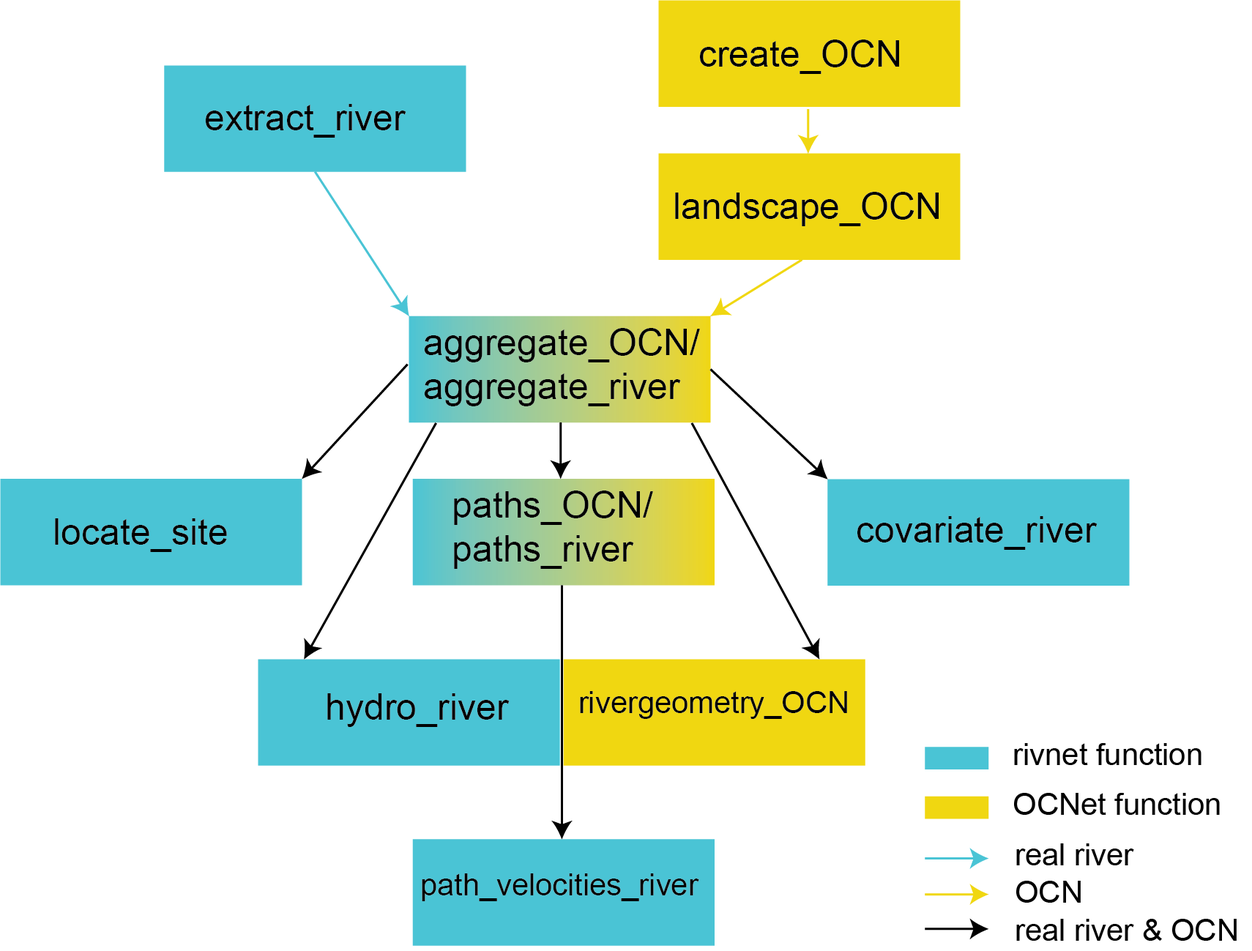
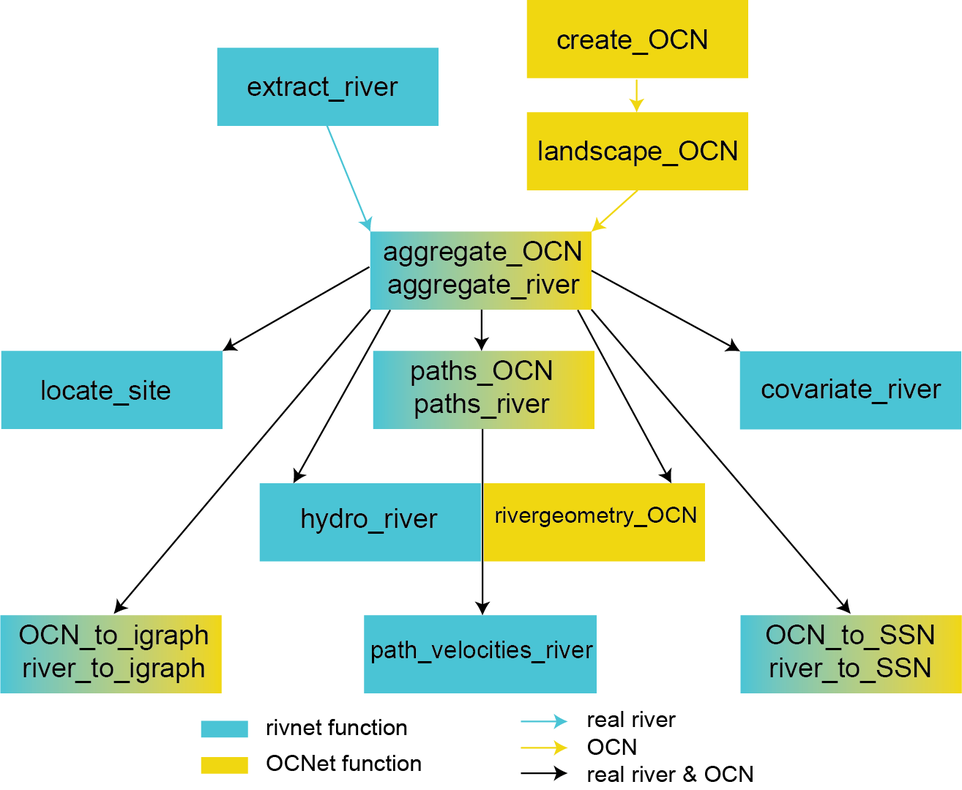
Deploying to gh-pages from @ lucarraro/rivnet@55681bc7442469798eda9d7e310753242be2d22b 🚀

diff --git a/reference/river_to_SSN.html b/reference/river_to_SSN.html
@@ -1,0 +1,99 @@
+<!DOCTYPE html>
+<!-- Generated by pkgdown: do not edit by hand --><html lang="en"><head><meta http-equiv="Content-Type" content="text/html; charset=UTF-8"><meta charset="utf-8"><meta http-equiv="X-UA-Compatible" content="IE=edge"><meta name="viewport" content="width=device-width, initial-scale=1, shrink-to-fit=no"><meta name="description" content="Function that transforms a river object into a SpatialStreamNetwork object."><title>Transform river into SSN object — river_to_SSN • rivnet</title><script src="../deps/jquery-3.6.0/jquery-3.6.0.min.js"></script><meta name="viewport" content="width=device-width, initial-scale=1, shrink-to-fit=no"><link href="../deps/bootstrap-5.2.2/bootstrap.min.css" rel="stylesheet"><script src="../deps/bootstrap-5.2.2/bootstrap.bundle.min.js"></script><!-- Font Awesome icons --><link rel="stylesheet" href="https://cdnjs.cloudflare.com/ajax/libs/font-awesome/5.12.1/css/all.min.css" integrity="sha256-mmgLkCYLUQbXn0B1SRqzHar6dCnv9oZFPEC1g1cwlkk=" crossorigin="anonymous"><link rel="stylesheet" href="https://cdnjs.cloudflare.com/ajax/libs/font-awesome/5.12.1/css/v4-shims.min.css" integrity="sha256-wZjR52fzng1pJHwx4aV2AO3yyTOXrcDW7jBpJtTwVxw=" crossorigin="anonymous"><!-- bootstrap-toc --><script src="https://cdn.jsdelivr.net/gh/afeld/bootstrap-toc@v1.0.1/dist/bootstrap-toc.min.js" integrity="sha256-4veVQbu7//Lk5TSmc7YV48MxtMy98e26cf5MrgZYnwo=" crossorigin="anonymous"></script><!-- headroom.js --><script src="https://cdnjs.cloudflare.com/ajax/libs/headroom/0.11.0/headroom.min.js" integrity="sha256-AsUX4SJE1+yuDu5+mAVzJbuYNPHj/WroHuZ8Ir/CkE0=" crossorigin="anonymous"></script><script src="https://cdnjs.cloudflare.com/ajax/libs/headroom/0.11.0/jQuery.headroom.min.js" integrity="sha256-ZX/yNShbjqsohH1k95liqY9Gd8uOiE1S4vZc+9KQ1K4=" crossorigin="anonymous"></script><!-- clipboard.js --><script src="https://cdnjs.cloudflare.com/ajax/libs/clipboard.js/2.0.6/clipboard.min.js" integrity="sha256-inc5kl9MA1hkeYUt+EC3BhlIgyp/2jDIyBLS6k3UxPI=" crossorigin="anonymous"></script><!-- search --><script src="https://cdnjs.cloudflare.com/ajax/libs/fuse.js/6.4.6/fuse.js" integrity="sha512-zv6Ywkjyktsohkbp9bb45V6tEMoWhzFzXis+LrMehmJZZSys19Yxf1dopHx7WzIKxr5tK2dVcYmaCk2uqdjF4A==" crossorigin="anonymous"></script><script src="https://cdnjs.cloudflare.com/ajax/libs/autocomplete.js/0.38.0/autocomplete.jquery.min.js" integrity="sha512-GU9ayf+66Xx2TmpxqJpliWbT5PiGYxpaG8rfnBEk1LL8l1KGkRShhngwdXK1UgqhAzWpZHSiYPc09/NwDQIGyg==" crossorigin="anonymous"></script><script src="https://cdnjs.cloudflare.com/ajax/libs/mark.js/8.11.1/mark.min.js" integrity="sha512-5CYOlHXGh6QpOFA/TeTylKLWfB3ftPsde7AnmhuitiTX4K5SqCLBeKro6sPS8ilsz1Q4NRx3v8Ko2IBiszzdww==" crossorigin="anonymous"></script><!-- pkgdown --><script src="../pkgdown.js"></script><meta property="og:title" content="Transform river into SSN object — river_to_SSN"><meta property="og:description" content="Function that transforms a river object into a SpatialStreamNetwork object."><!-- mathjax --><script src="https://cdnjs.cloudflare.com/ajax/libs/mathjax/2.7.5/MathJax.js" integrity="sha256-nvJJv9wWKEm88qvoQl9ekL2J+k/RWIsaSScxxlsrv8k=" crossorigin="anonymous"></script><script src="https://cdnjs.cloudflare.com/ajax/libs/mathjax/2.7.5/config/TeX-AMS-MML_HTMLorMML.js" integrity="sha256-84DKXVJXs0/F8OTMzX4UR909+jtl4G7SPypPavF+GfA=" crossorigin="anonymous"></script><!--[if lt IE 9]>
+<script src="https://oss.maxcdn.com/html5shiv/3.7.3/html5shiv.min.js"></script>
+<script src="https://oss.maxcdn.com/respond/1.4.2/respond.min.js"></script>
+<![endif]--></head><body>
+    <a href="#main" class="visually-hidden-focusable">Skip to contents</a>
+    
+
+    <nav class="navbar fixed-top navbar-light navbar-expand-lg bg-light"><div class="container">
+    
+    <a class="navbar-brand me-2" href="../index.html">rivnet</a>
+
+    <small class="nav-text text-muted me-auto" data-bs-toggle="tooltip" data-bs-placement="bottom" title="">0.1.0</small>
+
+    
+    <button class="navbar-toggler" type="button" data-bs-toggle="collapse" data-bs-target="#navbar" aria-controls="navbar" aria-expanded="false" aria-label="Toggle navigation">
+      <span class="navbar-toggler-icon"></span>
+    </button>
+
+    <div id="navbar" class="collapse navbar-collapse ms-3">
+      <ul class="navbar-nav me-auto"><li class="nav-item">
+  <a class="nav-link" href="../articles/rivnet.html">Get started</a>
+</li>
+<li class="active nav-item">
+  <a class="nav-link" href="../reference/index.html">Reference</a>
+</li>
+      </ul><form class="form-inline my-2 my-lg-0" role="search">
+        <input type="search" class="form-control me-sm-2" aria-label="Toggle navigation" name="search-input" data-search-index="../search.json" id="search-input" placeholder="Search for" autocomplete="off"></form>
+
+      <ul class="navbar-nav"></ul></div>
+
+    
+  </div>
+</nav><div class="container template-reference-topic">
+<div class="row">
+  <main id="main" class="col-md-9"><div class="page-header">
+      <img src="" class="logo" alt=""><h1>Transform river into SSN object</h1>
+      
+      <div class="d-none name"><code>river_to_SSN.Rd</code></div>
+    </div>
+
+    <div class="ref-description section level2">
+    <p>Function that transforms a river object into a SpatialStreamNetwork object.</p>
+    </div>
+
+    <div class="section level2">
+    <h2 id="ref-usage">Usage<a class="anchor" aria-label="anchor" href="#ref-usage"></a></h2>
+    <div class="sourceCode"><pre class="sourceCode r"><code><span><span class="fu">river_to_SSN</span><span class="op">(</span><span class="va">river</span>, <span class="va">...</span><span class="op">)</span></span></code></pre></div>
+    </div>
+
+    <div class="section level2">
+    <h2 id="arguments">Arguments<a class="anchor" aria-label="anchor" href="#arguments"></a></h2>
+    <dl><dt>river</dt>
+<dd><p>A river object.</p></dd>
+
+<dt>...</dt>
+<dd><p>Further arguments to be passed to <code>OCN_to_SSN</code>.</p></dd>
+
+</dl></div>
+    <div class="section level2">
+    <h2 id="details">Details<a class="anchor" aria-label="anchor" href="#details"></a></h2>
+    <p>This is an alias to <code>OCN_to_SSN</code>.</p>
+    </div>
+
+    <div class="section level2">
+    <h2 id="ref-examples">Examples<a class="anchor" aria-label="anchor" href="#ref-examples"></a></h2>
+    <div class="sourceCode"><pre class="sourceCode r"><code><span class="r-in"><span><span class="kw">if</span> <span class="op">(</span><span class="cn">FALSE</span><span class="op">)</span> <span class="op">{</span> <span class="co"># interactive() &amp;&amp; traudem::can_register_taudem()</span></span></span>
+<span class="r-in"><span><span class="co"># \donttest{</span></span></span>
+<span class="r-in"><span> <span class="va">fp</span> <span class="op">&lt;-</span> <span class="fu"><a href="https://rdrr.io/r/base/system.file.html" class="external-link">system.file</a></span><span class="op">(</span><span class="st">"extdata/wigger.tif"</span>, package<span class="op">=</span><span class="st">"rivnet"</span><span class="op">)</span></span></span>
+<span class="r-in"><span> <span class="va">r</span> <span class="op">&lt;-</span> <span class="fu"><a href="extract_river.html">extract_river</a></span><span class="op">(</span>outlet<span class="op">=</span><span class="fu"><a href="https://rdrr.io/r/base/c.html" class="external-link">c</a></span><span class="op">(</span><span class="fl">637478</span>,<span class="fl">237413</span><span class="op">)</span>,</span></span>
+<span class="r-in"><span>  DEM<span class="op">=</span><span class="va">fp</span><span class="op">)</span></span></span>
+<span class="r-in"><span><span class="va">r</span> <span class="op">&lt;-</span> <span class="fu"><a href="aggregate_river.html">aggregate_river</a></span><span class="op">(</span><span class="va">r</span><span class="op">)</span>  </span></span>
+<span class="r-in"><span><span class="va">s</span> <span class="op">&lt;-</span> <span class="fu">river_to_SSN</span><span class="op">(</span><span class="va">r</span>, level <span class="op">=</span> <span class="st">"AG"</span>, obsSites <span class="op">=</span> <span class="fu"><a href="https://rdrr.io/r/base/sample.html" class="external-link">sample</a></span><span class="op">(</span><span class="va">r</span><span class="op">$</span><span class="va">AG</span><span class="op">$</span><span class="va">nNodes</span>, <span class="fl">10</span><span class="op">)</span>,</span></span>
+<span class="r-in"><span>  path <span class="op">=</span> <span class="fu"><a href="https://rdrr.io/r/base/paste.html" class="external-link">paste</a></span><span class="op">(</span><span class="fu"><a href="https://rdrr.io/r/base/tempfile.html" class="external-link">tempdir</a></span><span class="op">(</span><span class="op">)</span>,<span class="st">"/river.ssn"</span>, sep <span class="op">=</span> <span class="st">""</span><span class="op">)</span>, importToR <span class="op">=</span> <span class="cn">TRUE</span><span class="op">)</span></span></span>
+<span class="r-in"><span><span class="fu"><a href="plot.html">plot</a></span><span class="op">(</span><span class="va">s</span><span class="op">)</span></span></span>
+<span class="r-in"><span><span class="co"># }</span></span></span>
+<span class="r-in"><span><span class="op">}</span>  </span></span>
+</code></pre></div>
+    </div>
+  </main><aside class="col-md-3"><nav id="toc"><h2>On this page</h2>
+    </nav></aside></div>
+
+
+    <footer><div class="pkgdown-footer-left">
+  <p></p><p>Developed by Luca Carraro.</p>
+</div>
+
+<div class="pkgdown-footer-right">
+  <p></p><p>Site built with <a href="https://pkgdown.r-lib.org/" class="external-link">pkgdown</a> 2.0.7.</p>
+</div>
+
+    </footer></div>
+
+  
+
+  
+
+  </body></html>
+

diff --git a/reference/river_to_igraph.html b/reference/river_to_igraph.html
@@ -1,0 +1,98 @@
+<!DOCTYPE html>
+<!-- Generated by pkgdown: do not edit by hand --><html lang="en"><head><meta http-equiv="Content-Type" content="text/html; charset=UTF-8"><meta charset="utf-8"><meta http-equiv="X-UA-Compatible" content="IE=edge"><meta name="viewport" content="width=device-width, initial-scale=1, shrink-to-fit=no"><meta name="description" content="Transform a river in an igraph object"><title>river_to_igraph — river_to_igraph • rivnet</title><script src="../deps/jquery-3.6.0/jquery-3.6.0.min.js"></script><meta name="viewport" content="width=device-width, initial-scale=1, shrink-to-fit=no"><link href="../deps/bootstrap-5.2.2/bootstrap.min.css" rel="stylesheet"><script src="../deps/bootstrap-5.2.2/bootstrap.bundle.min.js"></script><!-- Font Awesome icons --><link rel="stylesheet" href="https://cdnjs.cloudflare.com/ajax/libs/font-awesome/5.12.1/css/all.min.css" integrity="sha256-mmgLkCYLUQbXn0B1SRqzHar6dCnv9oZFPEC1g1cwlkk=" crossorigin="anonymous"><link rel="stylesheet" href="https://cdnjs.cloudflare.com/ajax/libs/font-awesome/5.12.1/css/v4-shims.min.css" integrity="sha256-wZjR52fzng1pJHwx4aV2AO3yyTOXrcDW7jBpJtTwVxw=" crossorigin="anonymous"><!-- bootstrap-toc --><script src="https://cdn.jsdelivr.net/gh/afeld/bootstrap-toc@v1.0.1/dist/bootstrap-toc.min.js" integrity="sha256-4veVQbu7//Lk5TSmc7YV48MxtMy98e26cf5MrgZYnwo=" crossorigin="anonymous"></script><!-- headroom.js --><script src="https://cdnjs.cloudflare.com/ajax/libs/headroom/0.11.0/headroom.min.js" integrity="sha256-AsUX4SJE1+yuDu5+mAVzJbuYNPHj/WroHuZ8Ir/CkE0=" crossorigin="anonymous"></script><script src="https://cdnjs.cloudflare.com/ajax/libs/headroom/0.11.0/jQuery.headroom.min.js" integrity="sha256-ZX/yNShbjqsohH1k95liqY9Gd8uOiE1S4vZc+9KQ1K4=" crossorigin="anonymous"></script><!-- clipboard.js --><script src="https://cdnjs.cloudflare.com/ajax/libs/clipboard.js/2.0.6/clipboard.min.js" integrity="sha256-inc5kl9MA1hkeYUt+EC3BhlIgyp/2jDIyBLS6k3UxPI=" crossorigin="anonymous"></script><!-- search --><script src="https://cdnjs.cloudflare.com/ajax/libs/fuse.js/6.4.6/fuse.js" integrity="sha512-zv6Ywkjyktsohkbp9bb45V6tEMoWhzFzXis+LrMehmJZZSys19Yxf1dopHx7WzIKxr5tK2dVcYmaCk2uqdjF4A==" crossorigin="anonymous"></script><script src="https://cdnjs.cloudflare.com/ajax/libs/autocomplete.js/0.38.0/autocomplete.jquery.min.js" integrity="sha512-GU9ayf+66Xx2TmpxqJpliWbT5PiGYxpaG8rfnBEk1LL8l1KGkRShhngwdXK1UgqhAzWpZHSiYPc09/NwDQIGyg==" crossorigin="anonymous"></script><script src="https://cdnjs.cloudflare.com/ajax/libs/mark.js/8.11.1/mark.min.js" integrity="sha512-5CYOlHXGh6QpOFA/TeTylKLWfB3ftPsde7AnmhuitiTX4K5SqCLBeKro6sPS8ilsz1Q4NRx3v8Ko2IBiszzdww==" crossorigin="anonymous"></script><!-- pkgdown --><script src="../pkgdown.js"></script><meta property="og:title" content="river_to_igraph — river_to_igraph"><meta property="og:description" content="Transform a river in an igraph object"><!-- mathjax --><script src="https://cdnjs.cloudflare.com/ajax/libs/mathjax/2.7.5/MathJax.js" integrity="sha256-nvJJv9wWKEm88qvoQl9ekL2J+k/RWIsaSScxxlsrv8k=" crossorigin="anonymous"></script><script src="https://cdnjs.cloudflare.com/ajax/libs/mathjax/2.7.5/config/TeX-AMS-MML_HTMLorMML.js" integrity="sha256-84DKXVJXs0/F8OTMzX4UR909+jtl4G7SPypPavF+GfA=" crossorigin="anonymous"></script><!--[if lt IE 9]>
+<script src="https://oss.maxcdn.com/html5shiv/3.7.3/html5shiv.min.js"></script>
+<script src="https://oss.maxcdn.com/respond/1.4.2/respond.min.js"></script>
+<![endif]--></head><body>
+    <a href="#main" class="visually-hidden-focusable">Skip to contents</a>
+    
+
+    <nav class="navbar fixed-top navbar-light navbar-expand-lg bg-light"><div class="container">
+    
+    <a class="navbar-brand me-2" href="../index.html">rivnet</a>
+
+    <small class="nav-text text-muted me-auto" data-bs-toggle="tooltip" data-bs-placement="bottom" title="">0.1.0</small>
+
+    
+    <button class="navbar-toggler" type="button" data-bs-toggle="collapse" data-bs-target="#navbar" aria-controls="navbar" aria-expanded="false" aria-label="Toggle navigation">
+      <span class="navbar-toggler-icon"></span>
+    </button>
+
+    <div id="navbar" class="collapse navbar-collapse ms-3">
+      <ul class="navbar-nav me-auto"><li class="nav-item">
+  <a class="nav-link" href="../articles/rivnet.html">Get started</a>
+</li>
+<li class="active nav-item">
+  <a class="nav-link" href="../reference/index.html">Reference</a>
+</li>
+      </ul><form class="form-inline my-2 my-lg-0" role="search">
+        <input type="search" class="form-control me-sm-2" aria-label="Toggle navigation" name="search-input" data-search-index="../search.json" id="search-input" placeholder="Search for" autocomplete="off"></form>
+
+      <ul class="navbar-nav"></ul></div>
+
+    
+  </div>
+</nav><div class="container template-reference-topic">
+<div class="row">
+  <main id="main" class="col-md-9"><div class="page-header">
+      <img src="" class="logo" alt=""><h1>river_to_igraph</h1>
+      
+      <div class="d-none name"><code>river_to_igraph.Rd</code></div>
+    </div>
+
+    <div class="ref-description section level2">
+    <p>Transform a river in an igraph object</p>
+    </div>
+
+    <div class="section level2">
+    <h2 id="ref-usage">Usage<a class="anchor" aria-label="anchor" href="#ref-usage"></a></h2>
+    <div class="sourceCode"><pre class="sourceCode r"><code><span><span class="fu">river_to_igraph</span><span class="op">(</span><span class="va">river</span>, <span class="va">...</span><span class="op">)</span></span></code></pre></div>
+    </div>
+
+    <div class="section level2">
+    <h2 id="arguments">Arguments<a class="anchor" aria-label="anchor" href="#arguments"></a></h2>
+    <dl><dt>river</dt>
+<dd><p>A river object.</p></dd>
+
+<dt>...</dt>
+<dd><p>Further arguments to be passed to <code>OCN_to_igraph</code>.</p></dd>
+
+</dl></div>
+    <div class="section level2">
+    <h2 id="details">Details<a class="anchor" aria-label="anchor" href="#details"></a></h2>
+    <p>This is an alias to <code>OCN_to_igraph</code>.</p>
+    </div>
+
+    <div class="section level2">
+    <h2 id="ref-examples">Examples<a class="anchor" aria-label="anchor" href="#ref-examples"></a></h2>
+    <div class="sourceCode"><pre class="sourceCode r"><code><span class="r-in"><span><span class="kw">if</span> <span class="op">(</span><span class="cn">FALSE</span><span class="op">)</span> <span class="op">{</span> <span class="co"># interactive() &amp;&amp; traudem::can_register_taudem()</span></span></span>
+<span class="r-in"><span><span class="co"># \donttest{</span></span></span>
+<span class="r-in"><span> <span class="va">fp</span> <span class="op">&lt;-</span> <span class="fu"><a href="https://rdrr.io/r/base/system.file.html" class="external-link">system.file</a></span><span class="op">(</span><span class="st">"extdata/wigger.tif"</span>, package<span class="op">=</span><span class="st">"rivnet"</span><span class="op">)</span></span></span>
+<span class="r-in"><span> <span class="va">r</span> <span class="op">&lt;-</span> <span class="fu"><a href="extract_river.html">extract_river</a></span><span class="op">(</span>outlet<span class="op">=</span><span class="fu"><a href="https://rdrr.io/r/base/c.html" class="external-link">c</a></span><span class="op">(</span><span class="fl">637478</span>,<span class="fl">237413</span><span class="op">)</span>,</span></span>
+<span class="r-in"><span>  DEM<span class="op">=</span><span class="va">fp</span><span class="op">)</span></span></span>
+<span class="r-in"><span><span class="va">r</span> <span class="op">&lt;-</span> <span class="fu"><a href="aggregate_river.html">aggregate_river</a></span><span class="op">(</span><span class="va">r</span><span class="op">)</span>  </span></span>
+<span class="r-in"><span><span class="va">g</span> <span class="op">&lt;-</span> <span class="fu">river_to_igraph</span><span class="op">(</span><span class="va">r</span>, level <span class="op">=</span> <span class="st">"AG"</span><span class="op">)</span></span></span>
+<span class="r-in"><span><span class="va">g</span></span></span>
+<span class="r-in"><span><span class="co"># }</span></span></span>
+<span class="r-in"><span><span class="op">}</span>  </span></span>
+</code></pre></div>
+    </div>
+  </main><aside class="col-md-3"><nav id="toc"><h2>On this page</h2>
+    </nav></aside></div>
+
+
+    <footer><div class="pkgdown-footer-left">
+  <p></p><p>Developed by Luca Carraro.</p>
+</div>
+
+<div class="pkgdown-footer-right">
+  <p></p><p>Site built with <a href="https://pkgdown.r-lib.org/" class="external-link">pkgdown</a> 2.0.7.</p>
+</div>
+
+    </footer></div>
+
+  
+
+  
+
+  </body></html>
+

diff --git a/reference/plot.html b/reference/plot.html
@@ -46,11 +46,11 @@
     <div class="section level2">
     <h2 id="ref-usage">Usage<a class="anchor" aria-label="anchor" href="#ref-usage"></a></h2>
     <div class="sourceCode"><pre class="sourceCode r"><code><span><span class="co"># S4 method for river,numeric</span></span>
-<span><span class="fu">plot</span><span class="op">(</span><span class="va">x</span>, <span class="va">y</span>, <span class="va">...</span><span class="op">)</span></span>
+<span><span class="fu">plot</span><span class="op">(</span><span class="va">x</span>, <span class="va">y</span>, <span class="va">level</span>, <span class="va">...</span><span class="op">)</span></span>
 <span><span class="co"># S4 method for numeric,river</span></span>
-<span><span class="fu">plot</span><span class="op">(</span><span class="va">x</span>, <span class="va">y</span>, <span class="va">...</span><span class="op">)</span></span>
+<span><span class="fu">plot</span><span class="op">(</span><span class="va">x</span>, <span class="va">y</span>, <span class="va">level</span>, <span class="va">...</span><span class="op">)</span></span>
 <span><span class="co"># S4 method for river,missing</span></span>
-<span><span class="fu">plot</span><span class="op">(</span><span class="va">x</span>, <span class="va">y</span>, <span class="va">...</span><span class="op">)</span></span></code></pre></div>
+<span><span class="fu">plot</span><span class="op">(</span><span class="va">x</span>, <span class="va">level</span>, <span class="va">...</span><span class="op">)</span></span></code></pre></div>
     </div>
 
     <div class="section level2">
@@ -60,8 +60,12 @@
 
 <dt>y</dt>
 <dd><p>A numeric vector to be displayed (or a river if <code>x</code> is a numeric vector). 
-It is equivalent to <code>theme</code> in <code>draw_thematic_OCN</code>. If <code>y</code> is specified, the river must 
+It is equivalent to <code>theme</code> in <code>draw_subcatchments_OCN</code> and <code>draw_thematic_OCN</code>. If <code>y</code> is specified, the river must 
 have been aggregated. See details.</p></dd>
+
+<dt>level</dt>
+<dd><p>Optional argument. If <code>level = "SC"</code>, <code>draw_subcatchments_OCN</code> is used (provided that the river object is aggregated); alternatively,
+<code>draw_thematic_OCN</code> is used.</p></dd>
 
 <dt>...</dt>
 <dd><p>Arguments passed to the plotting functions <code>draw_simple_OCN</code>, <code>draw_contour_OCN</code>, 
@@ -70,16 +74,16 @@ have been aggregated. See details.</p></dd>
 </dl></div>
     <div class="section level2">
     <h2 id="details">Details<a class="anchor" aria-label="anchor" href="#details"></a></h2>
-    <p>This is an interface to the plotting functions <code>draw_simple_OCN</code>, <code>draw_contour_OCN</code>, 
+    <p>This is an interface to the plotting functions <code>draw_simple_OCN</code>, <code>draw_contour_OCN</code>, <code>draw_subcatchments_OCN</code>,
 <code>draw_thematic_OCN</code>. If the river object does not have an elevation field (i.e., it has been generated
 by <code>create_OCN</code> or <code>create_general_contour_OCN</code>, but <code>landscape_OCN</code> has not 
 been run), the plotting function used is <code>draw_simple_OCN</code>. If the elevation field is present, but the river 
 has not been aggregated (via <code>aggregate_OCN</code> or <code>aggregate_river</code>), the plotting function used is 
- <code>draw_contour_OCN</code>. If the river has been aggregated,  <code>draw_thematic_OCN</code> is used.</p>
+ <code>draw_contour_OCN</code>. If the river has been aggregated, <code>draw_subcatchments_OCN</code> or <code>draw_thematic_OCN</code> are used depending on <code>level</code>.</p>
     </div>
     <div class="section level2">
     <h2 id="see-also">See also<a class="anchor" aria-label="anchor" href="#see-also"></a></h2>
-    <div class="dont-index"><p><code>draw_simple_OCN</code>, <code>draw_contour_OCN</code>, <code>draw_thematic_OCN</code></p></div>
+    <div class="dont-index"><p><code>draw_simple_OCN</code>, <code>draw_contour_OCN</code>, <code>draw_subcatchments_OCN</code>, <code>draw_thematic_OCN</code></p></div>
     </div>
 
     <div class="section level2">
@@ -93,9 +97,16 @@ has not been aggregated (via <code>aggregate_OCN</code> or <code>aggregate_river
 <span class="r-in"><span><span class="co"># \donttest{</span></span></span>
 <span class="r-in"><span><span class="va">r</span> <span class="op">&lt;-</span> <span class="fu"><a href="aggregate_river.html">aggregate_river</a></span><span class="op">(</span><span class="va">r</span><span class="op">)</span></span></span>
 <span class="r-in"><span><span class="fu">plot</span><span class="op">(</span><span class="va">r</span><span class="op">)</span> <span class="co"># equivalent to draw_thematic_OCN</span></span></span>
+<span class="r-in"><span><span class="fu">plot</span><span class="op">(</span><span class="va">r</span>, level <span class="op">=</span> <span class="st">"SC"</span><span class="op">)</span> <span class="co"># equivalent to draw_subcatchments_OCN</span></span></span>
 <span class="r-in"><span></span></span>
 <span class="r-in"><span><span class="co"># equivalent to draw_thematic_OCN with 'theme' specified</span></span></span>
-<span class="r-in"><span><span class="fu">plot</span><span class="op">(</span><span class="va">r</span>, <span class="va">r</span><span class="op">$</span><span class="va">AG</span><span class="op">$</span><span class="va">streamOrder</span>, discreteLevels<span class="op">=</span><span class="cn">TRUE</span><span class="op">)</span> </span></span>
+<span class="r-in"><span><span class="fu">plot</span><span class="op">(</span><span class="va">r</span>, <span class="va">r</span><span class="op">$</span><span class="va">AG</span><span class="op">$</span><span class="va">streamOrder</span>, discreteLevels<span class="op">=</span><span class="cn">TRUE</span><span class="op">)</span></span></span>
+<span class="r-in"><span><span class="fu">plot</span><span class="op">(</span><span class="va">r</span><span class="op">$</span><span class="va">AG</span><span class="op">$</span><span class="va">streamOrder</span>, <span class="va">r</span>, discreteLevels<span class="op">=</span><span class="cn">TRUE</span><span class="op">)</span>  <span class="co"># swapping arguments is allowed</span></span></span>
+<span class="r-in"><span></span></span>
+<span class="r-in"><span><span class="co"># equivalent to draw_subcatchments_OCN with 'theme' specified</span></span></span>
+<span class="r-in"><span><span class="fu">plot</span><span class="op">(</span><span class="va">r</span>, <span class="va">r</span><span class="op">$</span><span class="va">SC</span><span class="op">$</span><span class="va">Y</span>, level<span class="op">=</span><span class="st">"SC"</span>, addLegend<span class="op">=</span><span class="cn">FALSE</span><span class="op">)</span></span></span>
+<span class="r-in"><span><span class="fu">plot</span><span class="op">(</span><span class="va">r</span><span class="op">$</span><span class="va">SC</span><span class="op">$</span><span class="va">Y</span>, <span class="va">r</span>, level<span class="op">=</span><span class="st">"SC"</span>, addLegend<span class="op">=</span><span class="cn">FALSE</span><span class="op">)</span>  <span class="co"># swapping arguments is allowed</span></span></span>
+<span class="r-in"><span></span></span>
 <span class="r-in"><span><span class="co"># }</span></span></span>
 <span class="r-in"><span><span class="op">}</span>  </span></span>
 </code></pre></div>

diff --git a/articles/rivnet.html b/articles/rivnet.html
@@ -69,6 +69,8 @@ Carraro</h4>
 
     
     
+<pre><code><span><span class="co">#&gt; Warning in rgl.init(initValue, onlyNULL): RGL: unable to open X11 display</span></span>
+<span><span class="co">#&gt; Warning: 'rgl.init' failed, running with 'rgl.useNULL = TRUE'.</span></span></code></pre>
 <div class="section level2">
 <h2 id="overview">Overview<a class="anchor" aria-label="anchor" href="#overview"></a>
 </h2>
@@ -101,7 +103,7 @@ packages.</p>
 <h2 id="installing-the-package">Installing the package<a class="anchor" aria-label="anchor" href="#installing-the-package"></a>
 </h2>
 <p><code>rivnet</code> can be installed from Github:</p>
-<div class="sourceCode" id="cb1"><pre class="downlit sourceCode r">
+<div class="sourceCode" id="cb2"><pre class="downlit sourceCode r">
 <code class="sourceCode R"><span><span class="fu">devtools</span><span class="fu">::</span><span class="fu">install_github</span><span class="op">(</span><span class="st">"lucarraro/rivnet"</span><span class="op">)</span></span></code></pre></div>
 <p>Among other packages, <code>rivnet</code> depends on the
 <code>traudem</code> package, and in turn, on the <a href="https://hydrology.usu.edu/taudem/taudem5/" class="external-link">TauDEM</a> library.
@@ -152,7 +154,7 @@ these functions.</p>
 <h2 id="a-minimal-example">A minimal example<a class="anchor" aria-label="anchor" href="#a-minimal-example"></a>
 </h2>
 <p>Extract a river (Wigger, Switzerland) from an user-provided DEM:</p>
-<div class="sourceCode" id="cb2"><pre class="downlit sourceCode r">
+<div class="sourceCode" id="cb3"><pre class="downlit sourceCode r">
 <code class="sourceCode R"><span><span class="va">fp</span> <span class="op">&lt;-</span> <span class="fu"><a href="https://rdrr.io/r/base/system.file.html" class="external-link">system.file</a></span><span class="op">(</span><span class="st">"extdata/wigger.tif"</span>, package <span class="op">=</span> <span class="st">"rivnet"</span><span class="op">)</span></span>
 <span><span class="va">r</span> <span class="op">&lt;-</span> <span class="fu"><a href="../reference/extract_river.html">extract_river</a></span><span class="op">(</span>outlet <span class="op">=</span> <span class="fu"><a href="https://rdrr.io/r/base/c.html" class="external-link">c</a></span><span class="op">(</span><span class="fl">637478</span>, <span class="fl">237413</span><span class="op">)</span>, DEM <span class="op">=</span> <span class="va">fp</span><span class="op">)</span></span>
 <span><span class="va">r</span></span>
@@ -167,7 +169,7 @@ these functions.</p>
 the input DEM.</p>
 <p>The same river can be extracted starting from DEM data downloaded
 from open-source servers:</p>
-<div class="sourceCode" id="cb3"><pre class="downlit sourceCode r">
+<div class="sourceCode" id="cb4"><pre class="downlit sourceCode r">
 <code class="sourceCode R"><span><span class="va">r2</span> <span class="op">&lt;-</span> <span class="fu"><a href="../reference/extract_river.html">extract_river</a></span><span class="op">(</span>outlet <span class="op">=</span> <span class="fu"><a href="https://rdrr.io/r/base/c.html" class="external-link">c</a></span><span class="op">(</span><span class="fl">637478</span>, <span class="fl">237413</span><span class="op">)</span>,</span>
 <span>    EPSG <span class="op">=</span> <span class="fl">21781</span>, <span class="co">#CH1903/LV03 coordinate system</span></span>
 <span>    ext <span class="op">=</span> <span class="fu"><a href="https://rdrr.io/r/base/c.html" class="external-link">c</a></span><span class="op">(</span><span class="fl">6.2e5</span>, <span class="fl">6.6e5</span>, <span class="fl">2e5</span>, <span class="fl">2.5e5</span><span class="op">)</span>,</span>
@@ -179,7 +181,7 @@ from open-source servers:</p>
 objects, which calls different drawing functions from the
 <code>OCNet</code> package. Its default behavior depends on the
 attributes included in the <code>river</code> object:</p>
-<div class="sourceCode" id="cb4"><pre class="downlit sourceCode r">
+<div class="sourceCode" id="cb5"><pre class="downlit sourceCode r">
 <code class="sourceCode R"><span><span class="va">r2</span> <span class="op">&lt;-</span> <span class="fu"><a href="../reference/aggregate_river.html">aggregate_river</a></span><span class="op">(</span><span class="va">r2</span><span class="op">)</span></span>
 <span><span class="fu"><a href="../reference/plot.html">plot</a></span><span class="op">(</span><span class="va">r2</span><span class="op">)</span></span></code></pre></div>
 <p><img src="wigger2.png" width="70%"></p>

diff --git a/reference/index.html b/reference/index.html
@@ -95,6 +95,16 @@
         <dd>river class</dd>
       </dl><dl><dt>
           
+          <code><a href="river_to_SSN.html">river_to_SSN()</a></code> 
+        </dt>
+        <dd>Transform river into SSN object</dd>
+      </dl><dl><dt>
+          
+          <code><a href="river_to_igraph.html">river_to_igraph()</a></code> 
+        </dt>
+        <dd>river_to_igraph</dd>
+      </dl><dl><dt>
+          
           <code><a href="rivnet-package.html">rivnet-package</a></code> <code><a href="rivnet-package.html">rivnet</a></code> 
         </dt>
         <dd>Extract And Analyze Rivers From Elevation Data.</dd>
